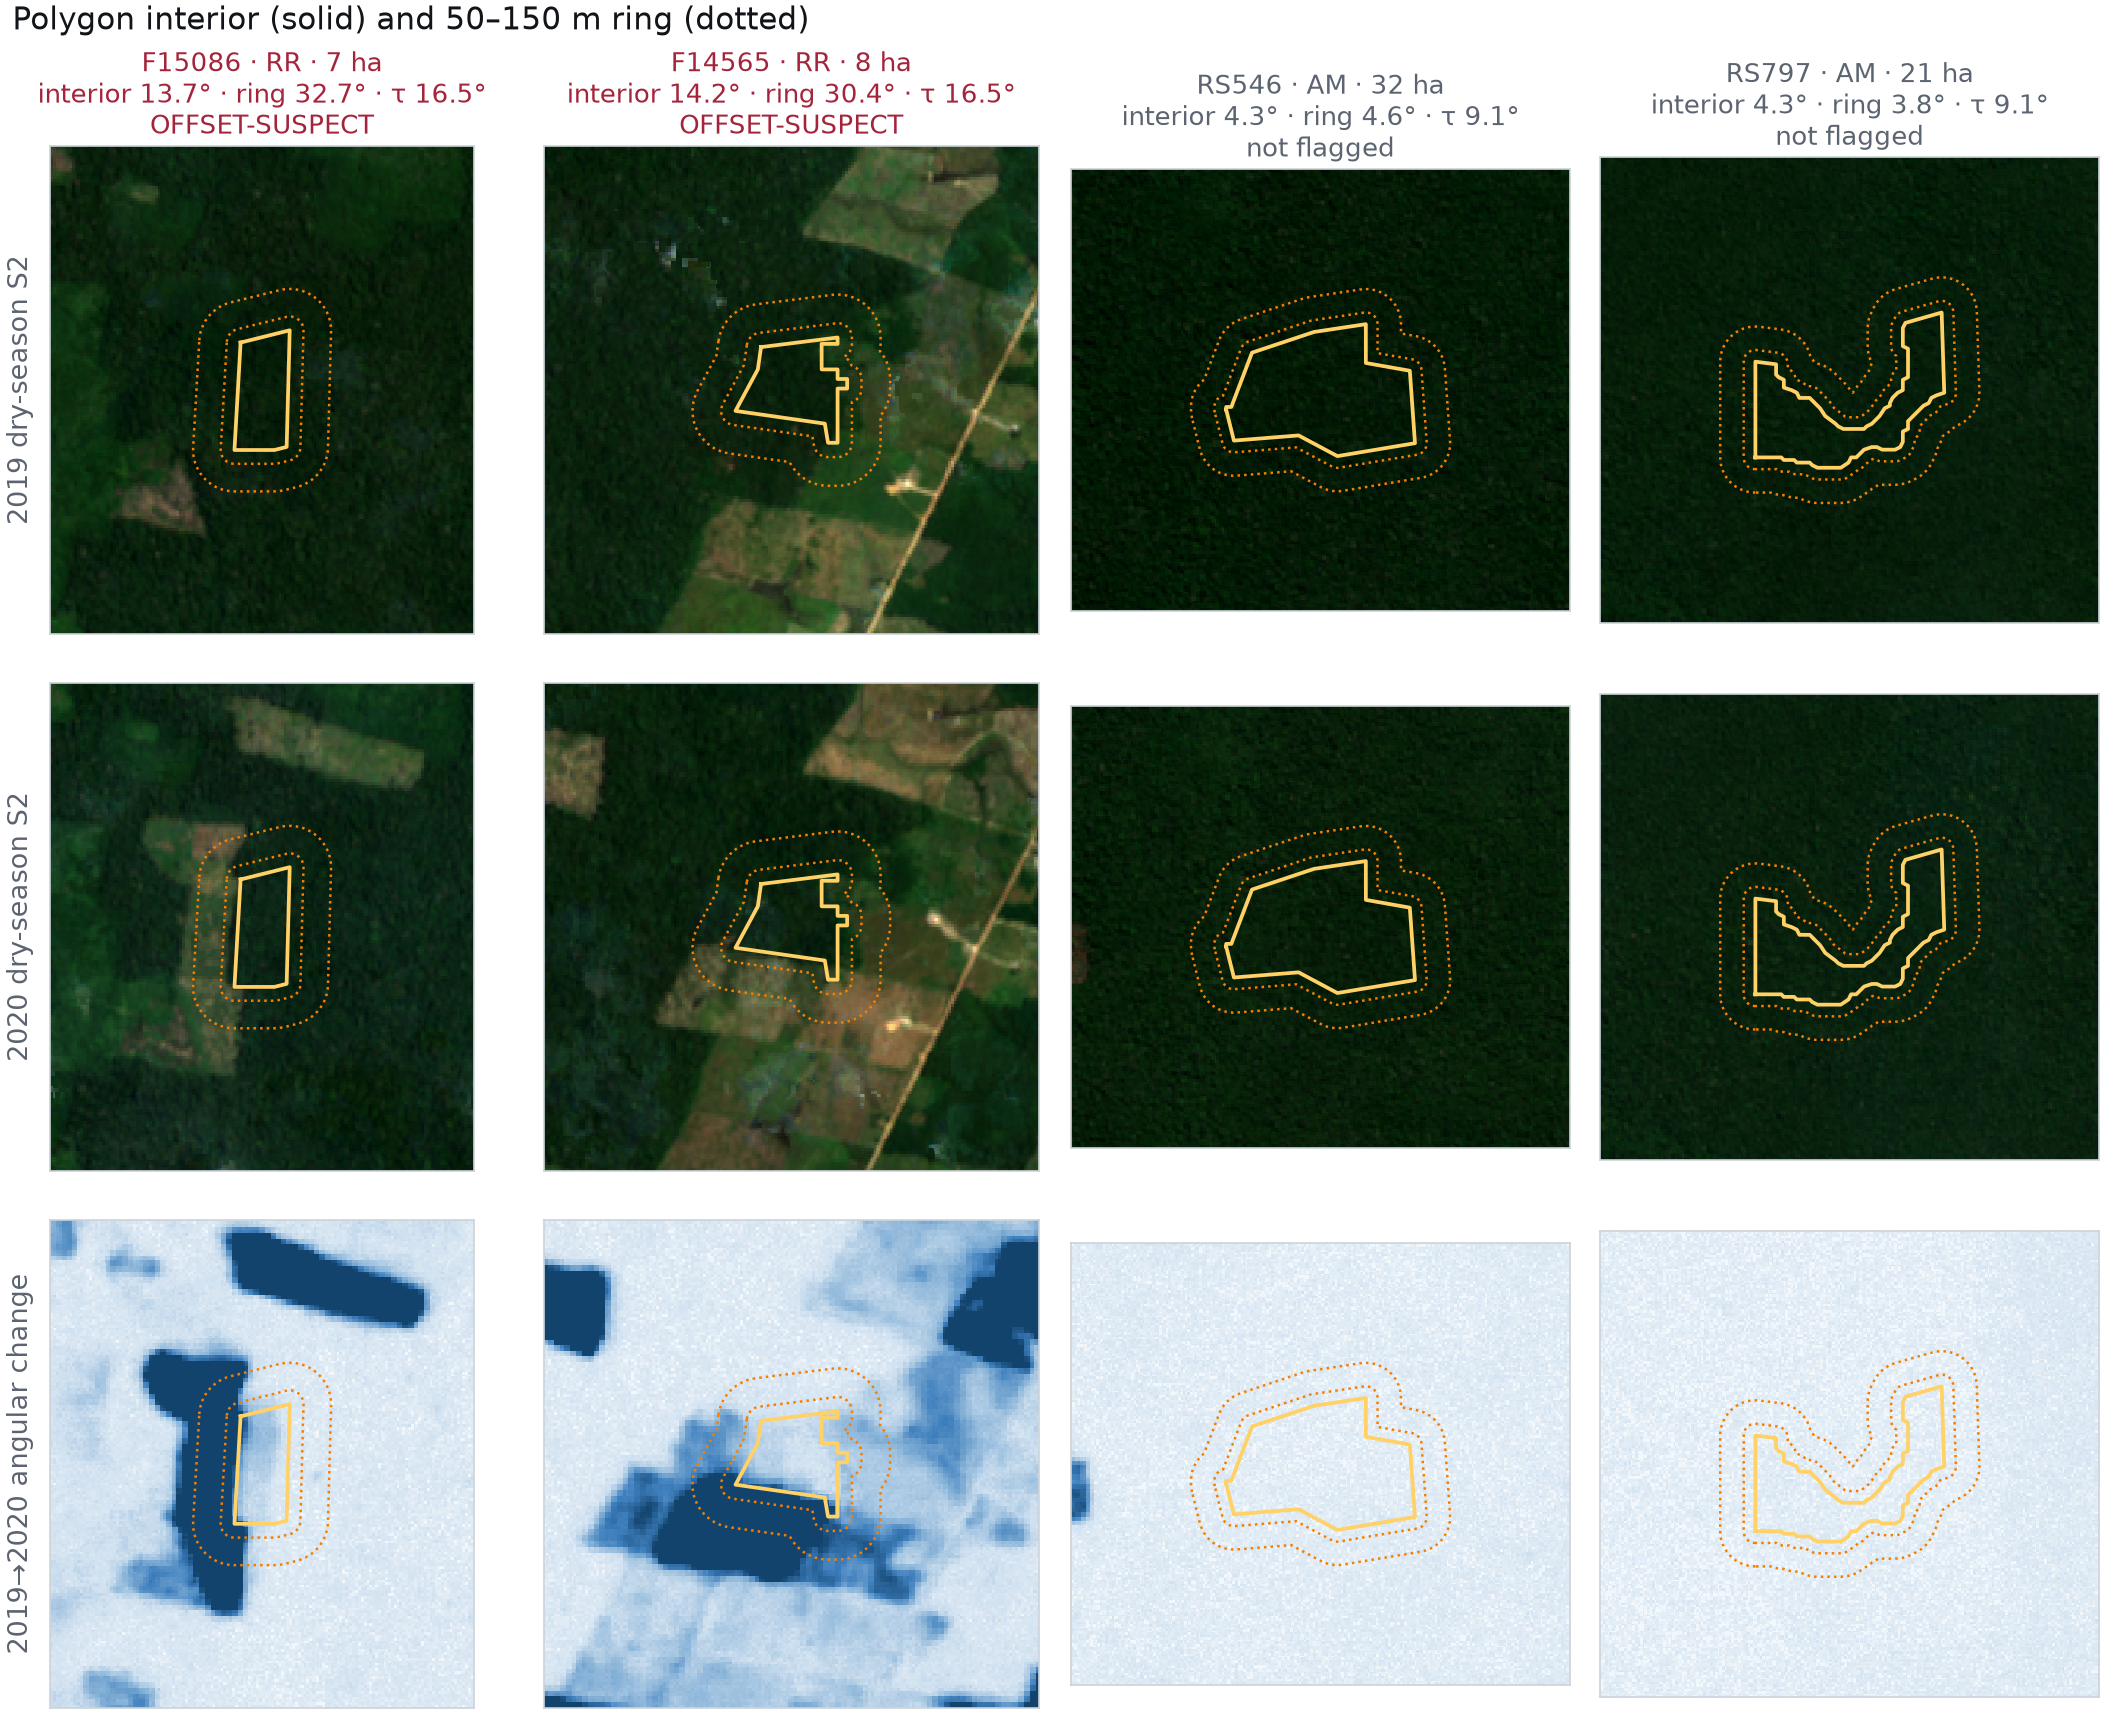
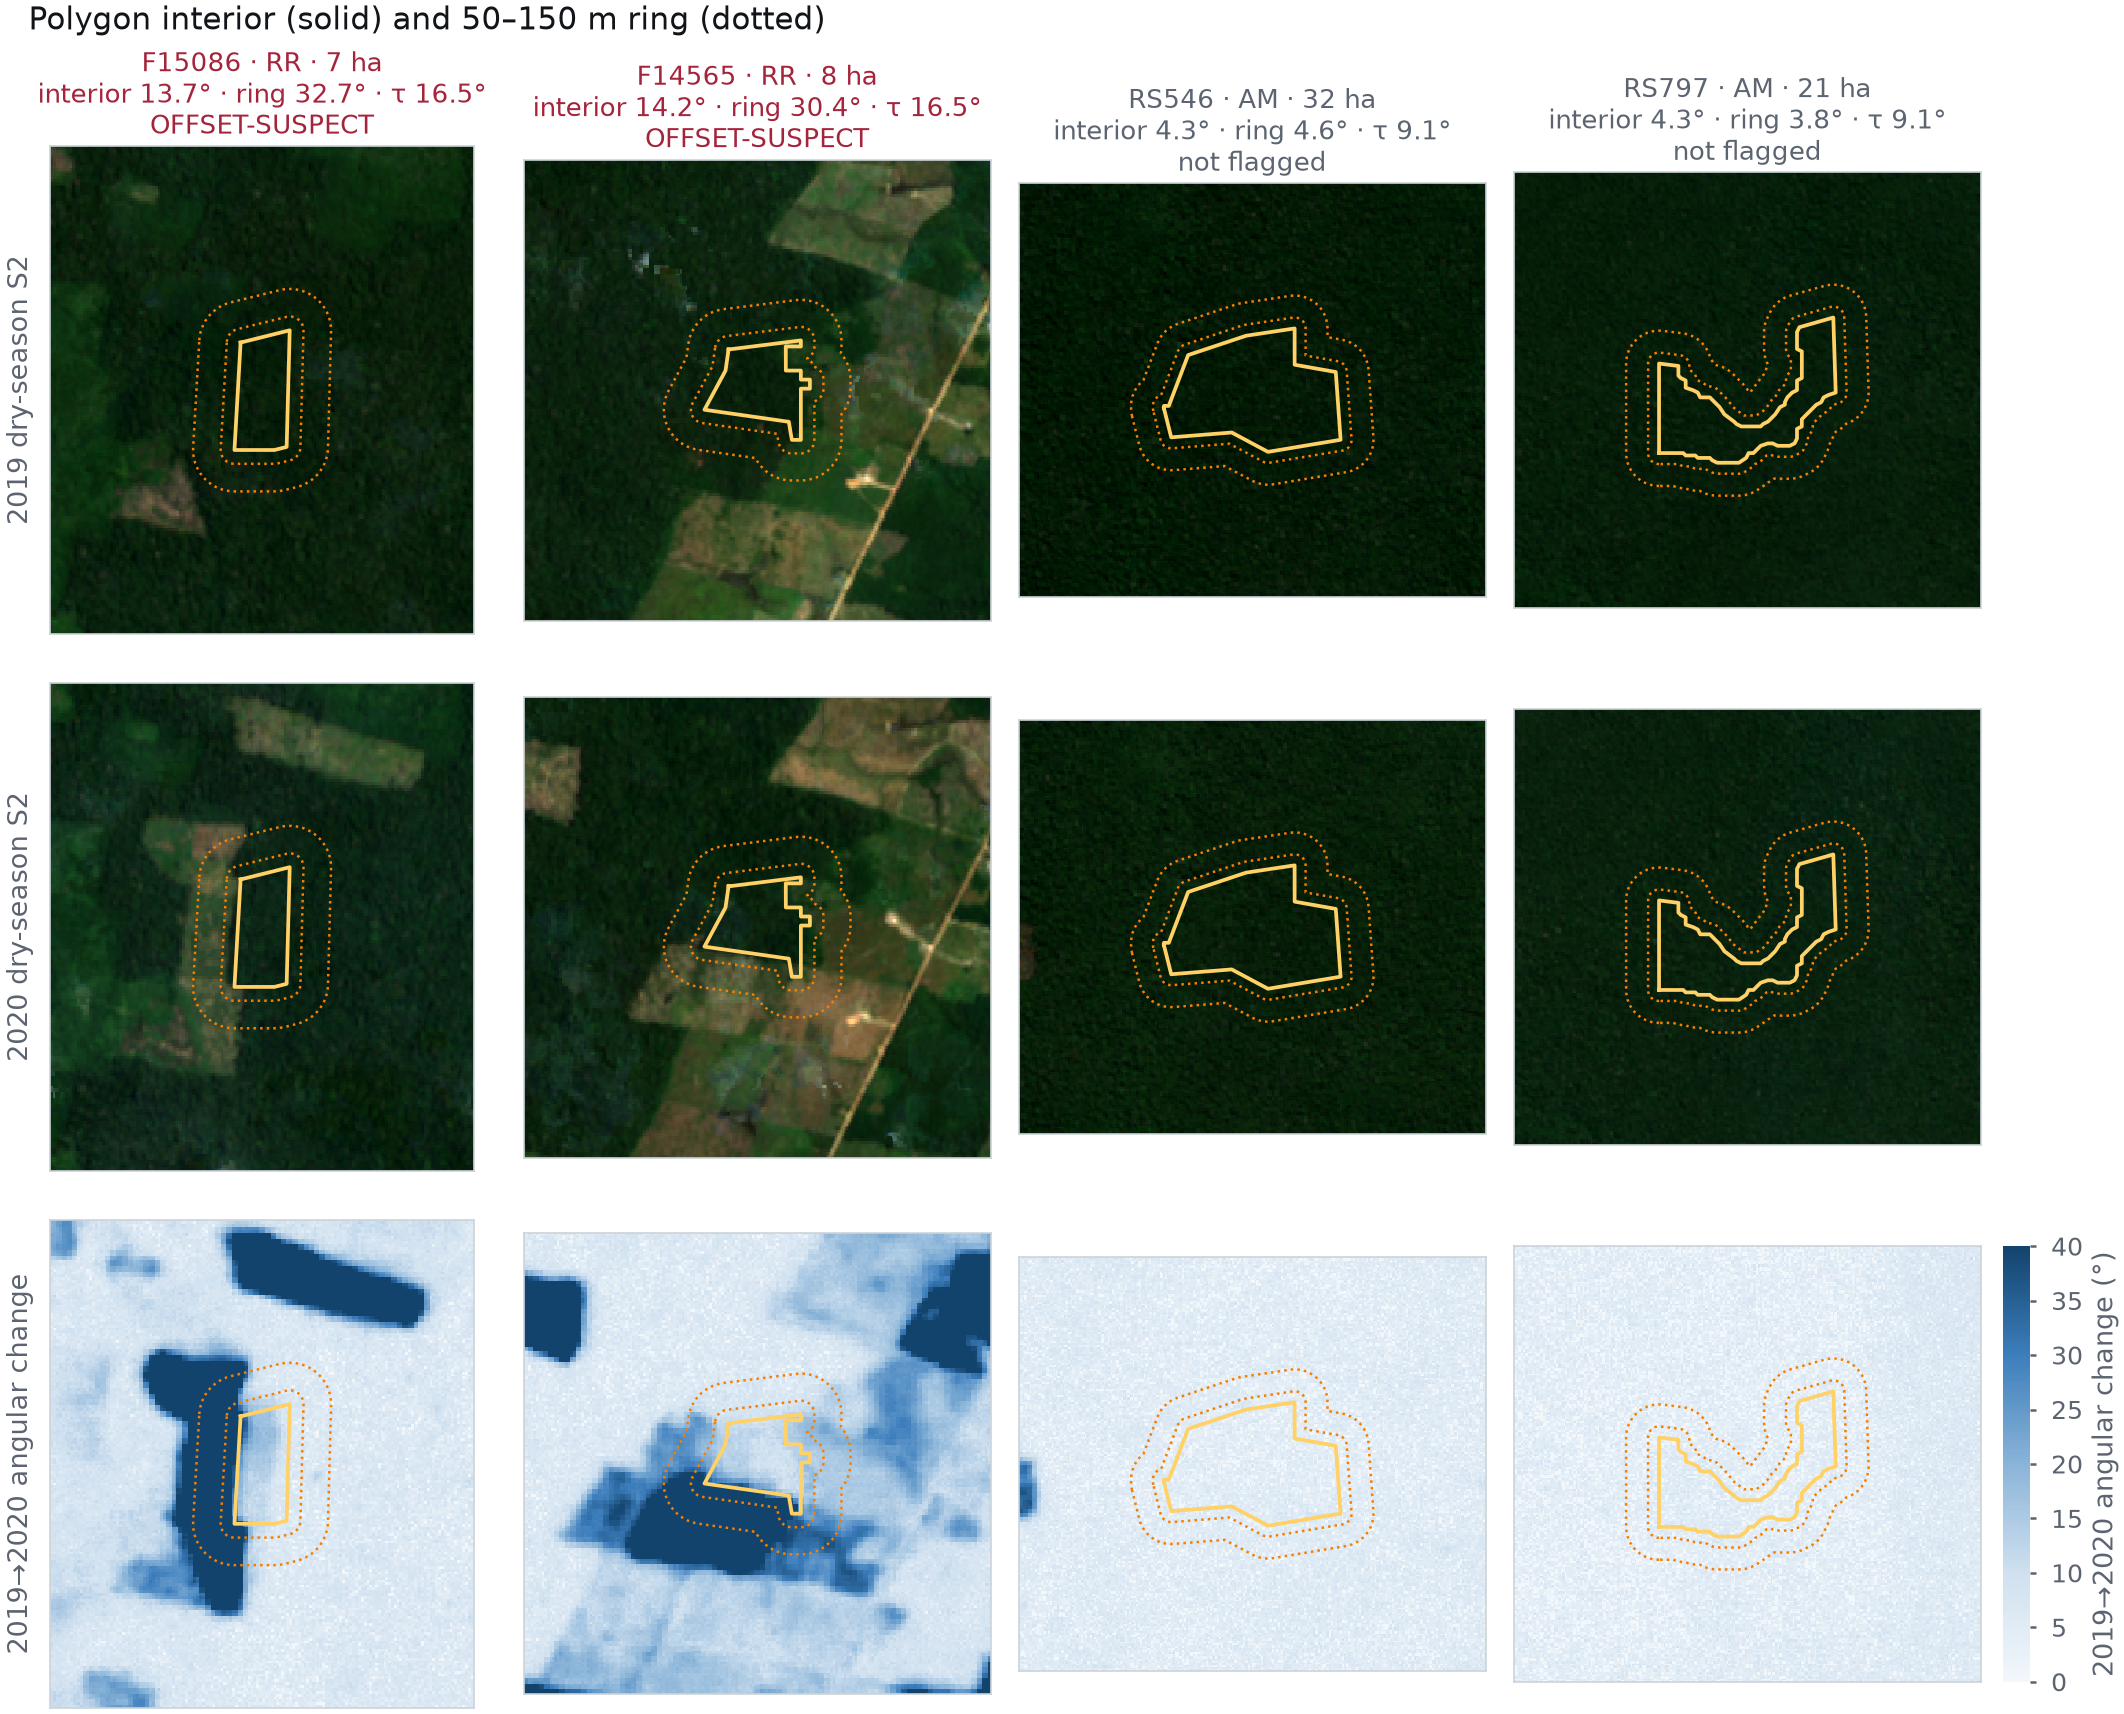
TB01-P8 item 5: F7 gains a degree colour key for the angular-change row
The bottom row plotted angular change on a blue ramp with no scale. A vertical colourbar
now sits beside that row, labelled 0-40 degrees, matching the stretch used to render the
thumbnails; the two Sentinel-2 rows are true colour and keep no key.

Thumbnails are cached to paper/cache/thumbs, so redrawing the figure no longer re-requests
twelve Earth Engine renders.

diff --git a/aef_explore/paper/code/fig_offset.py b/aef_explore/paper/code/fig_offset.py
@@ -5,7 +5,7 @@ unregistered events that are not flagged, each shown as a pre-event Sentinel-2 c
 post-event composite and the 2019->2020 angular-change field, with the DETER polygon and its
 ring drawn on top.
 """
-import io, json, sys, time, urllib.parse, urllib.request
+import hashlib, io, json, os, sys, time, urllib.parse, urllib.request
 import numpy as np
 import pandas as pd
 import ee
@@ -21,6 +21,8 @@ OFFSETS = "aef_explore/paper/code/offset_2020.csv"
 EVENTS = "aef_explore/stage5/TB01/P2b/P2b_events_2020.csv"
 ANG = LinearSegmentedColormap.from_list("ang", SEQ_BLUE)
 PAD = 0.006
+ANG_MAX = 40.0                      # degrees, the stretch used for the angular-change row
+CACHE = os.path.join(os.path.dirname(os.path.abspath(__file__)), "..", "cache", "thumbs")
 
 
 def polygon(row):
@@ -53,12 +55,20 @@ def rings(geom):
     return [np.asarray(r) for p in geom["coordinates"] for r in p]
 
 
-def thumb(img, region, vis, dims=340):
+def thumb(img, region, vis, dims=340, tag=""):
+    """Fetch a thumbnail, caching it on disk so re-rendering the figure is free."""
+    os.makedirs(CACHE, exist_ok=True)
+    key = hashlib.sha1((tag + json.dumps(vis, sort_keys=True) + str(dims)).encode()).hexdigest()[:20]
+    fp = os.path.join(CACHE, key + ".png")
+    if os.path.exists(fp):
+        return np.asarray(Image.open(fp).convert("RGB")) / 255.0
     url = img.getThumbURL(dict(region=region, dimensions=dims, format="png", **vis))
     for a in range(4):
         try:
             with urllib.request.urlopen(url, timeout=120) as r:
-                return np.asarray(Image.open(io.BytesIO(r.read())).convert("RGB")) / 255.0
+                raw = r.read()
+            open(fp, "wb").write(raw)
+            return np.asarray(Image.open(io.BytesIO(raw)).convert("RGB")) / 255.0
         except Exception:
             time.sleep(4 * (a + 1))
     raise RuntimeError("thumb failed")
@@ -88,7 +98,8 @@ def main():
     cln = off[(off.offset_suspect == 0)].sort_values("interior_ang_deg").head(2)
     sel = pd.concat([sus, cln])
     fig, axes = plt.subplots(3, 4, figsize=(W2, W2 * 0.80))
-    fig.subplots_adjust(wspace=0.06, hspace=0.10, left=0.055, right=0.985, top=0.90, bottom=0.03)
+    fig.subplots_adjust(wspace=0.06, hspace=0.10, left=0.055, right=0.925, top=0.90,
+                        bottom=0.03)
     for j, row in enumerate(sel.itertuples()):
         geom = polygon(row)
         rr = rings(geom)
@@ -96,11 +107,14 @@ def main():
         ext = (xs.min() - PAD, xs.max() + PAD, ys.min() - PAD, ys.max() + PAD)
         region = ee.Geometry.Rectangle([ext[0], ext[2], ext[1], ext[3]])
         pre = thumb(s2_median(2019, 6, 9, region), region,
-                    dict(min=200, max=2200, bands=["B4", "B3", "B2"]))
+                    dict(min=200, max=2200, bands=["B4", "B3", "B2"]),
+                    tag=f"{row.event_id}-pre")
         post = thumb(s2_median(2020, 6, 9, region), region,
-                     dict(min=200, max=2200, bands=["B4", "B3", "B2"]))
+                     dict(min=200, max=2200, bands=["B4", "B3", "B2"]),
+                     tag=f"{row.event_id}-post")
         a = thumb(ang_img(2019, 2020, region), region,
-                  dict(min=0, max=40, palette=[c.lstrip("#") for c in SEQ_BLUE]))
+                  dict(min=0, max=ANG_MAX, palette=[c.lstrip("#") for c in SEQ_BLUE]),
+                  tag=f"{row.event_id}-ang")
         for i, (arr, lab) in enumerate(((pre, "2019 dry-season S2"),
                                         (post, "2020 dry-season S2"),
                                         (a, "2019→2020 angular change"))):
@@ -128,6 +142,14 @@ def main():
                              f"{row.ring_50_150m_ang_deg:.1f}° · τ {row.tau_p90:.1f}°\n{flag}",
                              fontsize=6.2,
                              color=C["flag"] if row.offset_suspect else INK2, pad=3)
+    # colour key for the angular-change row only; the two Sentinel-2 rows are true colour
+    row3 = axes[2][3].get_position()
+    cax = fig.add_axes([0.935, row3.y0, 0.012, row3.height])
+    sm = plt.cm.ScalarMappable(cmap=ANG, norm=plt.Normalize(0, ANG_MAX))
+    cb = fig.colorbar(sm, cax=cax)
+    cb.set_label("2019→2020 angular change (°)", fontsize=6.4, color=INK2, labelpad=2)
+    cb.ax.tick_params(labelsize=6, length=1.5)
+    cb.outline.set_visible(False)
     fig.text(0.055, 0.965, "Polygon interior (solid) and 50–150 m ring (dotted)", fontsize=7.5,
              color=INK)
     save(fig, "F7_offset_examples.png")
